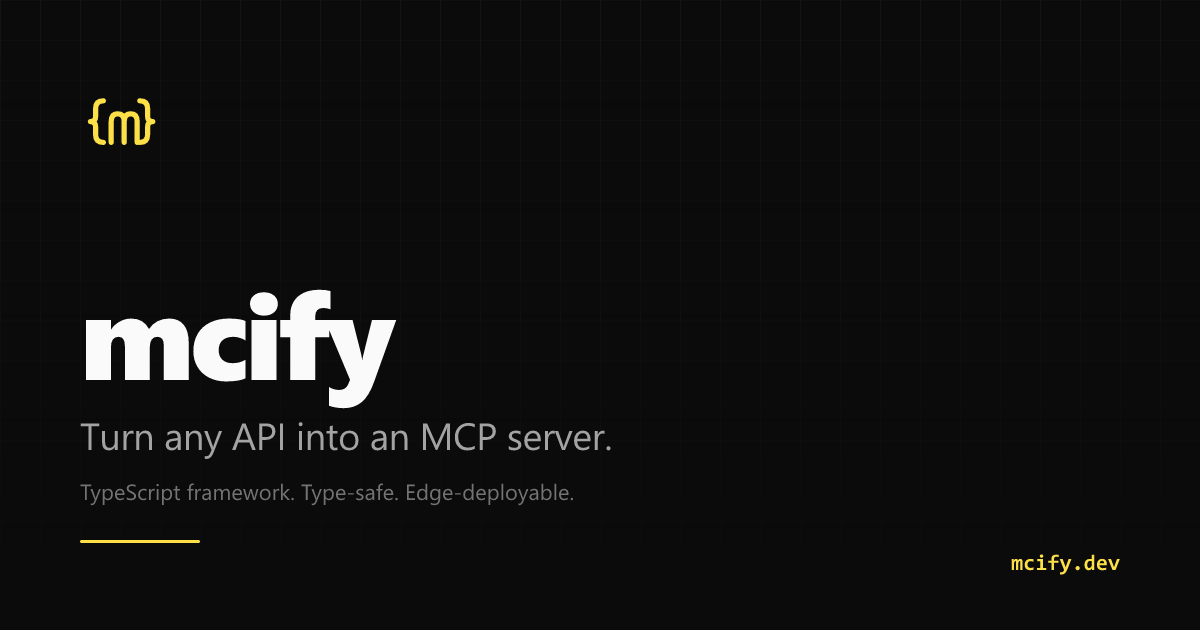
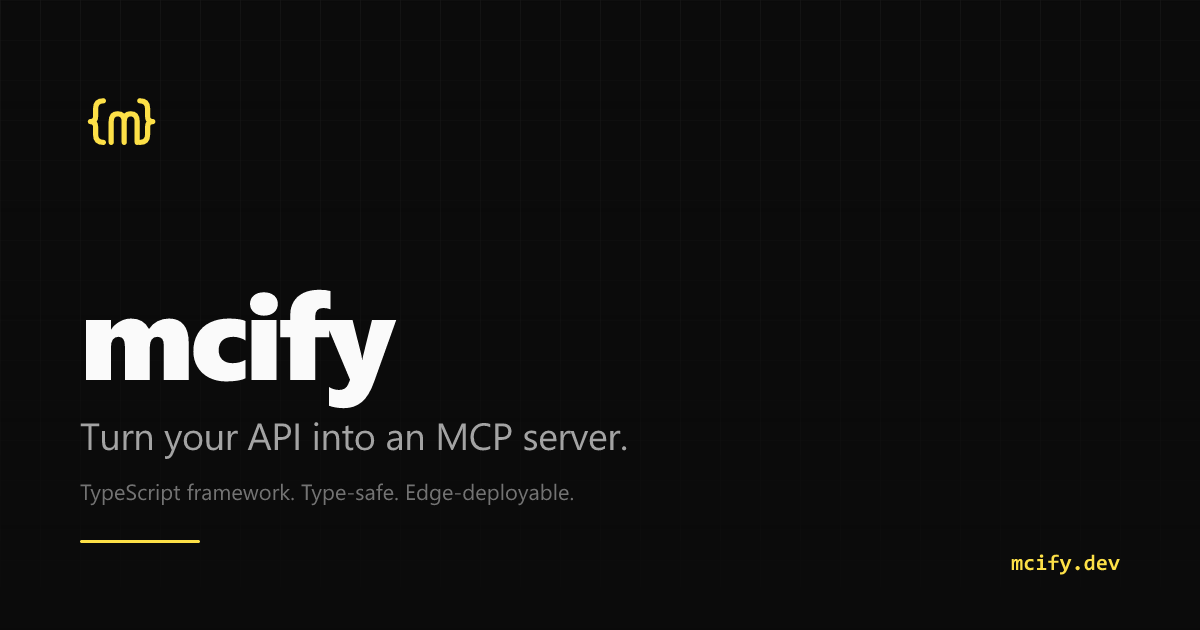
fix(docs,web): MDX import bug, mobile responsive, copy reframed
Three things:

1. MDX bug. The pages /start/first-server, /start/connect-clients,
   /prompts/how-to-use, /deploy/overview were rendering their
   `import { ... } from '@astrojs/starlight/components'` line as a
   literal paragraph at the top. They were authored as .mdx but the
   processor wasn't applying — Starlight's MDX integration was off
   in our setup. Converted those four pages back to .md and replaced
   the components (<Steps>, <Tabs>, <Card>, <LinkCard>) with native
   markdown — numbered lists, sub-headings, and tables. Visual loss
   is small; reliability gain is large.

2. Mobile responsive landing.
   - Hero h1: text-3xl on small screens (was text-4xl), then sm:4xl
     and md:6xl.
   - Hero install snippet: single flex row but the code now
     overflow-x-auto with whitespace-nowrap so it scrolls instead of
     pushing the copy button off the viewport. min-w-0 + flex-1 lets
     it actually shrink.
   - .section: py-14 on mobile (was py-20). Less wasted vertical.
   - .section-title: text-2xl on xs, sm:3xl, md:4xl.
   - Examples grid: sm:2 cols, lg:3 cols. Was md:3 directly which
     looked cramped on 768px.

3. Copy reframed: "any API" → "your API" (you/your is more direct
   to a dev reading), and the 6 features rewritten with value
   first, jargon second:
     - "Type-safe end-to-end" → "Schemas you write once"
     - "Edge-first" → folded into "ship to any cloud"
     - "AI-agent-aware" → "Your AI assistant already knows the rules"
[…]

Changed region(s): [[0.1233, 0.6635, 0.5242, 0.7238]]

diff --git a/apps/web/src/styles/globals.css b/apps/web/src/styles/globals.css
@@ -55,11 +55,11 @@
   }
 
   .section {
-    @apply py-20 md:py-28;
+    @apply py-14 md:py-28;
   }
 
   .section-title {
-    @apply mb-3 text-3xl font-semibold tracking-tight2 md:text-4xl;
+    @apply mb-3 text-2xl font-semibold tracking-tight2 sm:text-3xl md:text-4xl;
   }
 
   .section-lead {

diff --git a/apps/docs/src/content/docs/deploy/overview.md b/apps/docs/src/content/docs/deploy/overview.md
@@ -3,18 +3,16 @@ title: Deploy overview
 description: One CLI command per supported target. Pick the one that matches your infra.
 ---
 
-import { LinkCard, CardGrid } from '@astrojs/starlight/components';
-
 mcify ships one CLI command per supported target. Pick whichever fits your infra:
 
-| Target             | Command                       | When to use it                                          |
-| ------------------ | ----------------------------- | ------------------------------------------------------- |
-| Cloudflare Workers | `mcify deploy cloudflare`     | Edge runtime, scale-to-zero, lowest cold start.         |
-| Vercel Edge        | `mcify deploy vercel`         | Already on Vercel, want preview deploys per branch.     |
-| Fly.io             | `mcify deploy fly`            | Real long-running Node, region pinning (default `scl`). |
-| Railway            | `mcify deploy railway`        | Push and go, no Dockerfile to maintain.                 |
-| Docker             | `mcify deploy docker`         | Self-host, ECS, Cloud Run, push to GHCR/ECR.            |
-| Kubernetes         | `helm install ./charts/mcify` | Already on K8s — pair with `mcify deploy docker`.       |
+| Target             | Command                       | Guide                             |
+| ------------------ | ----------------------------- | --------------------------------- |
+| Cloudflare Workers | `mcify deploy cloudflare`     | [cloudflare](/deploy/cloudflare/) |
+| Vercel Edge        | `mcify deploy vercel`         | [vercel](/deploy/vercel/)         |
+| Fly.io             | `mcify deploy fly`            | [fly](/deploy/fly/)               |
+| Railway            | `mcify deploy railway`        | [railway](/deploy/railway/)       |
+| Docker             | `mcify deploy docker`         | [docker](/deploy/docker/)         |
+| Kubernetes         | `helm install ./charts/mcify` | [kubernetes](/deploy/kubernetes/) |
 
 ## The shape of every deploy
 
@@ -25,17 +23,6 @@ Every target follows the same three-step flow:
 3. **Invoke the target's CLI** — `wrangler deploy`, `flyctl deploy`, `railway up`, `vercel deploy`, `docker build`. mcify shells out; it doesn't re-implement the API.
 
 Every command supports `--dry-run` so you can inspect what would be pushed without actually pushing.
-
-## Per-target guides
-
-<CardGrid>
-  <LinkCard title="Cloudflare Workers" href="/deploy/cloudflare/" />
-  <LinkCard title="Vercel Edge" href="/deploy/vercel/" />
-  <LinkCard title="Fly.io" href="/deploy/fly/" />
-  <LinkCard title="Railway" href="/deploy/railway/" />
-  <LinkCard title="Docker" href="/deploy/docker/" />
-  <LinkCard title="Kubernetes (Helm)" href="/deploy/kubernetes/" />
-</CardGrid>
 
 ## CI/CD
 

diff --git a/apps/docs/src/content/docs/prompts/how-to-use.md b/apps/docs/src/content/docs/prompts/how-to-use.md
@@ -3,8 +3,6 @@ title: How to use these prompts
 description: Copy a prompt, paste it into Claude Code / Cursor / Windsurf, get production-ready output.
 ---
 
-import { Card, CardGrid } from '@astrojs/starlight/components';
-
 The pages in this section are **prompts you can copy and paste into your AI coding assistant** to get correct, idiomatic mcify code on the first try. Each one assumes the assistant has access to these docs (via `llms-full.txt`) and your local repo.
 
 ## Two ways to use them
@@ -37,20 +35,12 @@ mcify ships three things specifically for this loop:
 
 ## Available prompts
 
-<CardGrid>
-  <Card title="Add a tool" icon="add-document">
-    Tell the assistant what API call you want to expose. It scaffolds the tool with the right schemas, middleware, and tests. [Open prompt →](/prompts/add-tool/)
-  </Card>
-  <Card title="Wrap an existing API" icon="puzzle">
-    You point at an OpenAPI spec or a few endpoints. The assistant generates a full mcify connector. [Open prompt →](/prompts/wrap-api/)
-  </Card>
-  <Card title="Debug a misbehaving tool" icon="warning">
-    Paste the error or the agent transcript. The assistant locates the bug (schema mismatch, auth, timeout, side effect). [Open prompt →](/prompts/debug-tool/)
-  </Card>
-  <Card title="Migrate to multi-spec" icon="rocket">
-    You already have one MCP server. The assistant adds N microservices behind it via `generate from-openapi`. [Open prompt →](/prompts/migrate-multispec/)
-  </Card>
-</CardGrid>
+| Prompt                                               | What it does                                                                                                              |
+| ---------------------------------------------------- | ------------------------------------------------------------------------------------------------------------------------- |
+| [Add a tool](/prompts/add-tool/)                     | Tell the assistant what API call you want to expose. It scaffolds the tool with the right schemas, middleware, and tests. |
+| [Wrap an existing API](/prompts/wrap-api/)           | Point at an OpenAPI spec or a few endpoints. The assistant generates a full mcify connector.                              |
+| [Debug a misbehaving tool](/prompts/debug-tool/)     | Paste the error or the agent transcript. The assistant locates the bug (schema mismatch, auth, timeout, side effect).     |
+| [Migrate to multi-spec](/prompts/migrate-multispec/) | You already have one MCP server. The assistant adds N microservices behind it via `generate from-openapi`.                |
 
 ## Building your own
 

diff --git a/apps/docs/src/content/docs/start/connect-clients.md b/apps/docs/src/content/docs/start/connect-clients.md
@@ -3,15 +3,9 @@ title: Connect to Claude / Cursor / agents
 description: Wire your local mcify server to the AI client of your choice.
 ---
 
-import { Tabs, TabItem } from '@astrojs/starlight/components';
-
 Once `mcify dev` is running, the MCP endpoint is at `http://localhost:8888/mcp`. Every MCP-compatible client connects the same way: URL + (optional) bearer token.
 
-## Pick your client
-
-<Tabs>
-
-<TabItem label="Claude Desktop">
+## Claude Desktop
 
 Edit:
 
@@ -33,11 +27,9 @@ Edit:
 
 Restart Claude Desktop. The tools appear automatically.
 
-</TabItem>
+## Cursor
 
-<TabItem label="Cursor">
-
-Cursor uses the same `mcpServers` shape. Edit `.cursor/config.json` in your project:
+Same `mcpServers` shape. Edit `.cursor/config.json` in your project:
 
 ```json
 {
@@ -52,9 +44,7 @@ Cursor uses the same `mcpServers` shape. Edit `.cursor/config.json` in your proj
 
 Or set it globally in Cursor's settings → MCP. Reload the editor.
 
-</TabItem>
-
-<TabItem label="Claude Code">
+## Claude Code
 
 Claude Code reads from `.mcp.json` at the project root:
 
@@ -71,9 +61,7 @@ Claude Code reads from `.mcp.json` at the project root:
 
 Inside a Claude Code session: `/mcp` lists registered servers and their tools.
 
-</TabItem>
-
-<TabItem label="Custom (your agent)">
+## A custom agent
 
 If you're building your own agent on top of the [`@modelcontextprotocol/sdk`](https://github.com/modelcontextprotocol/typescript-sdk):
 
@@ -92,17 +80,11 @@ const tools = await client.listTools();
 console.log(tools);
 ```
 
-</TabItem>
-
-<TabItem label="The mcify inspector itself">
+## The mcify inspector itself
 
 `mcify dev` already starts a local web UI at [http://localhost:3001](http://localhost:3001). It has its own **Chat** tab that talks to Claude or GPT-4 directly from the browser, with your tools registered. Bring an API key (Anthropic or OpenAI), pick a model, type a message — the model uses your tools for real.
 
 Useful for kicking the tires before connecting an external agent.
-
-</TabItem>
-
-</Tabs>
 
 ## Verify the connection
 

diff --git a/apps/docs/src/content/docs/start/first-server.md b/apps/docs/src/content/docs/start/first-server.md
@@ -3,13 +3,9 @@ title: Your first MCP server
 description: Add a real tool, see it in the inspector, ship it.
 ---
 
-import { Steps } from '@astrojs/starlight/components';
-
 You scaffolded with `mcify init` and ran `pnpm dev`. Now let's add a real tool that calls a real API.
 
 We'll build a tiny server that wraps a public weather API. Two tools: `weather_get_current` and `weather_forecast`.
-
-<Steps>
 
 1. **Open `mcify.config.ts`.** It has one tool (`greet`). Delete it and the import.
 
@@ -99,8 +95,6 @@ We'll build a tiny server that wraps a public weather API. Two tools: `weather_g
    ```
 
    Click **Invoke**. You get the current weather in Santiago.
-
-</Steps>
 
 ## What just happened
 
